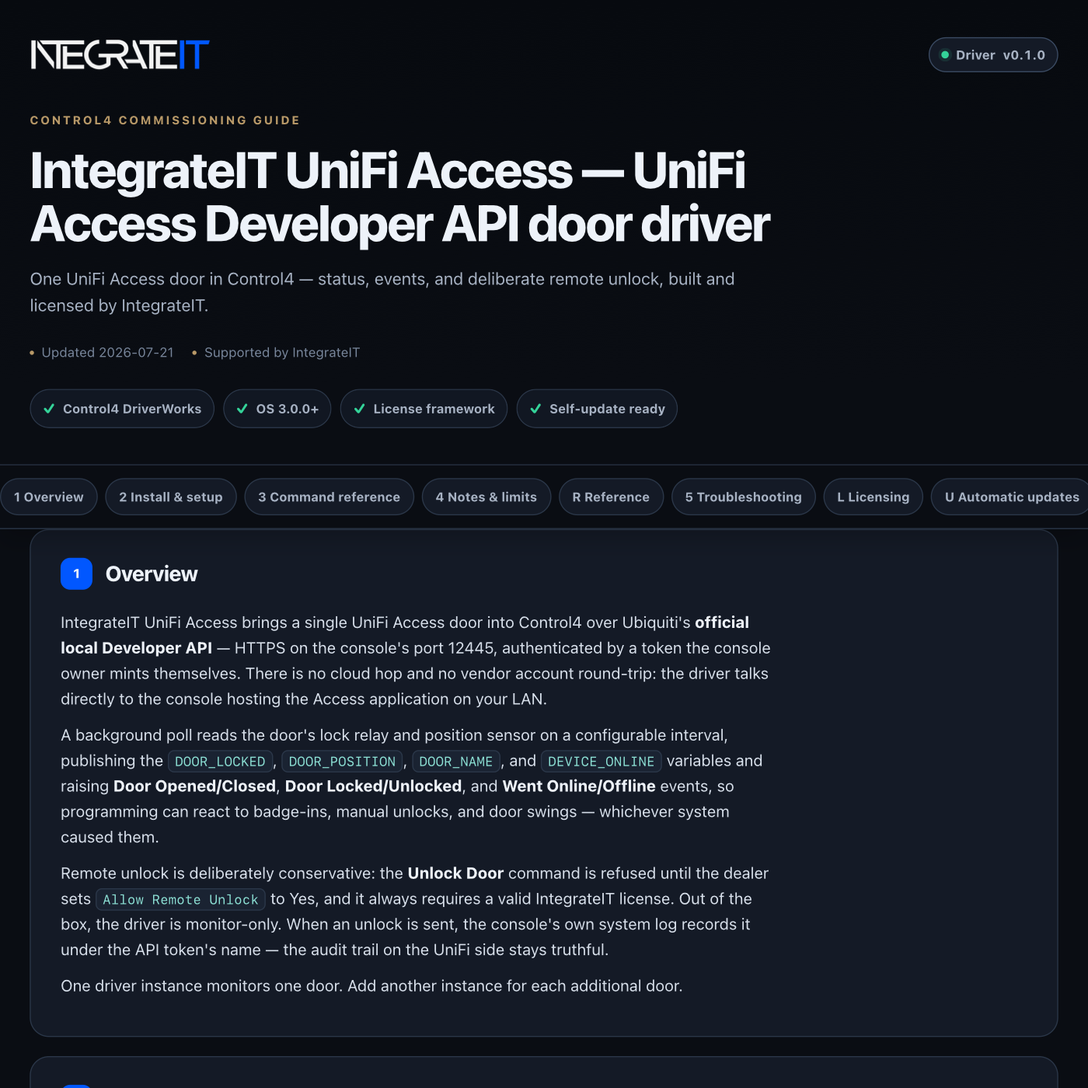
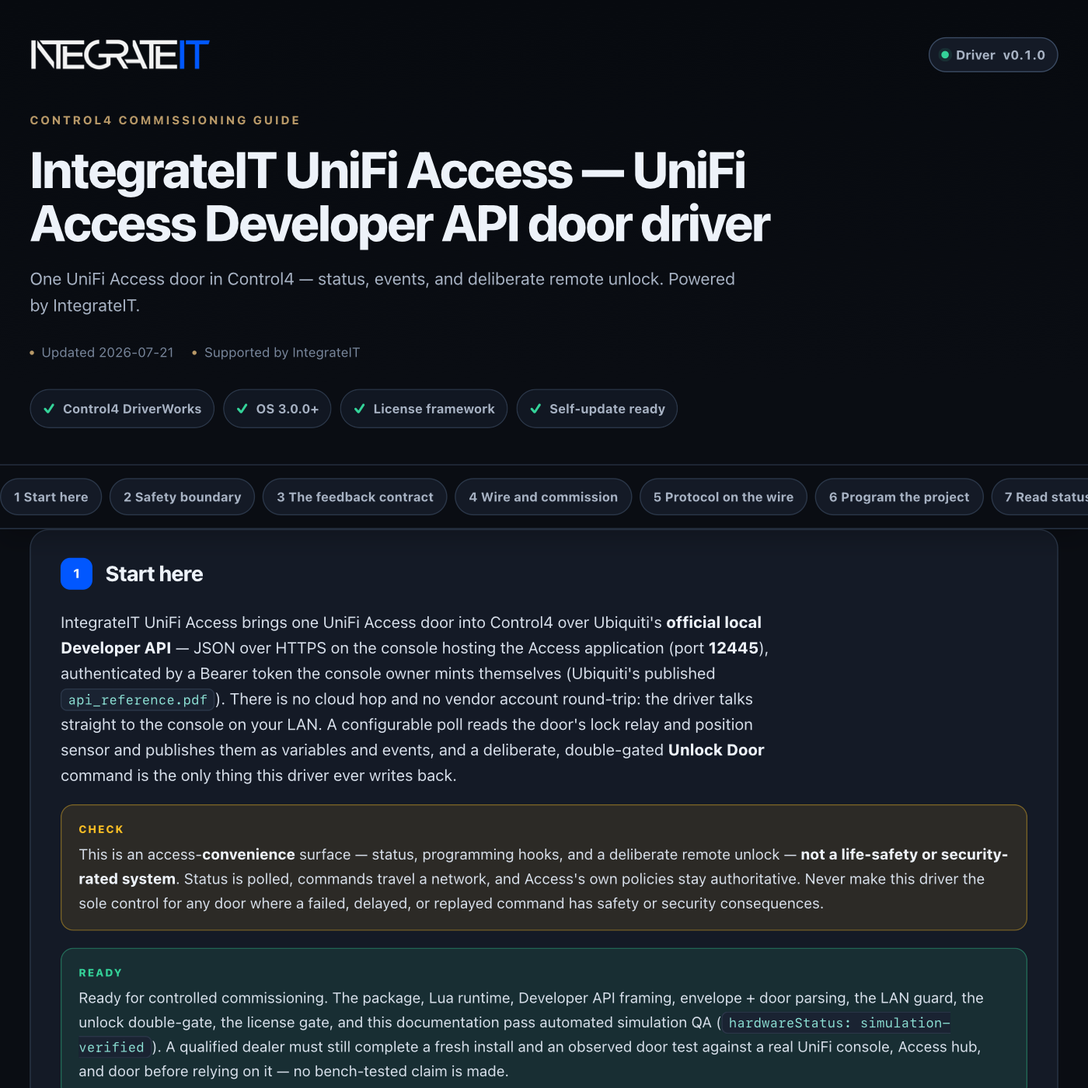
control4: publish driver channel (integrateit_unifi_access 0.1.1)

diff --git a/control4/integrateit_unifi_access/documentation.html b/control4/integrateit_unifi_access/documentation.html
@@ -179,13 +179,13 @@ td code{white-space:normal}
     <div class="wrap">
       <div class="brandbar">
[1 lines of base64/hex data omitted]
-        <span class="version"><span class="word">Driver</span> v0.1.0</span>
+        <span class="version"><span class="word">Driver</span> v0.1.1</span>
       </div>
       <p class="eyebrow">Control4 commissioning guide</p>
       <h1>IntegrateIT UniFi Access — UniFi Access Developer API door driver</h1>
-      <p class="sub">One UniFi Access door in Control4 — status, events, and deliberate remote unlock, built and licensed by IntegrateIT.</p>
+      <p class="sub">One UniFi Access door in Control4 — status, events, and deliberate remote unlock. Powered by IntegrateIT.</p>
       <div class="meta">
-        <span>Updated 2026-07-21</span>
+        <span>Updated 2026-07-26</span>
         <span>Supported by IntegrateIT</span>
       </div>
       <div class="readiness" aria-label="Driver capabilities">
@@ -198,53 +198,145 @@ td code{white-space:normal}
   </header>
 
   <div class="toc-wrap">
-    <nav class="toc wrap" aria-label="Documentation sections"><a href="#overview">1 Overview</a><a href="#install">2 Install &amp; setup</a><a href="#commands">3 Command reference</a><a href="#notes">4 Notes &amp; limits</a><a href="#reference">R Reference</a><a href="#troubleshooting">5 Troubleshooting</a><a href="#licensing">L Licensing</a><a href="#updates">U Automatic updates</a><a href="#changelog">V Version history</a></nav>
+    <nav class="toc wrap" aria-label="Documentation sections"><a href="#overview">1 Start here</a><a href="#safety">2 Safety boundary</a><a href="#feedback">3 The feedback contract</a><a href="#setup">4 Wire and commission</a><a href="#protocol">5 Protocol on the wire</a><a href="#programming">6 Program the project</a><a href="#status">7 Read status at a glance</a><a href="#troubleshooting">8 Troubleshoot methodically</a><a href="#trust">9 Ownership, privacy, and licensing</a><a href="#reference">R Reference</a><a href="#licensing">L Licensing</a><a href="#updates">U Automatic updates</a><a href="#changelog">V Version history</a></nav>
   </div>
 
   <main class="wrap">
     <section class="card" id="overview" data-card="overview">
-  <h2><span class="n">1</span> Overview</h2>
-  <p>IntegrateIT UniFi Access brings a single UniFi Access door into Control4 over Ubiquiti's <b>official local Developer API</b> — HTTPS on the console's port 12445, authenticated by a token the console owner mints themselves. There is no cloud hop and no vendor account round-trip: the driver talks directly to the console hosting the Access application on your LAN.</p>
-  <p>A background poll reads the door's lock relay and position sensor on a configurable interval, publishing the <code>DOOR_LOCKED</code>, <code>DOOR_POSITION</code>, <code>DOOR_NAME</code>, and <code>DEVICE_ONLINE</code> variables and raising <b>Door Opened/Closed</b>, <b>Door Locked/Unlocked</b>, and <b>Went Online/Offline</b> events, so programming can react to badge-ins, manual unlocks, and door swings — whichever system caused them.</p>
-  <p>Remote unlock is deliberately conservative: the <b>Unlock Door</b> command is refused until the dealer sets <code>Allow Remote Unlock</code> to Yes, and it always requires a valid IntegrateIT license. Out of the box, the driver is monitor-only. When an unlock is sent, the console's own system log records it under the API token's name — the audit trail on the UniFi side stays truthful.</p>
-  <p>One driver instance monitors one door. Add another instance for each additional door.</p>
+  <h2><span class="n">1</span> Start here</h2>
+  <p>IntegrateIT UniFi Access brings one UniFi Access door into Control4 over Ubiquiti's <b>official local Developer API</b> — JSON over HTTPS on the console hosting the Access application (port <b>12445</b>), authenticated by a Bearer token the console owner mints themselves (Ubiquiti's published <code>api_reference.pdf</code>). There is no cloud hop and no vendor account round-trip: the driver talks straight to the console on your LAN. A configurable poll reads the door's lock relay and position sensor and publishes them as variables and events, and a deliberate, double-gated <b>Unlock Door</b> command is the only thing this driver ever writes back.</p>
+  <div class="note warn">This is an access-<b>convenience</b> surface — status, programming hooks, and a deliberate remote unlock — <b>not a life-safety or security-rated system</b>. Status is polled, commands travel a network, and Access's own policies stay authoritative. Never make this driver the sole control for any door where a failed, delayed, or replayed command has safety or security consequences.</div>
+  <div class="note good">Ready for controlled commissioning. The package, Lua runtime, Developer API framing, envelope + door parsing, the LAN guard, the unlock double-gate, the license gate, and this documentation pass automated simulation QA (<code>hardwareStatus: simulation-verified</code>). A qualified dealer must still complete a fresh install and an observed door test against a real UniFi console, Access hub, and door before relying on it — no bench-tested claim is made.</div>
+  <p><b>What you get</b></p>
+  <ul>
+    <li>One door per instance, polled over the local Developer API — <code>GET /doors/&lt;id&gt;</code> diffed into state, no cloud dependency</li>
+    <li><code>DOOR_LOCKED</code>, <code>DOOR_POSITION</code> (Open / Closed / Unknown), <code>DOOR_NAME</code>, and <code>DEVICE_ONLINE</code> variables, republished on every poll</li>
+    <li><b>Door Opened/Closed</b>, <b>Door Locked/Unlocked</b>, <b>Went Online/Offline</b>, and <b>Remote Unlock Sent</b> events for Composer programming</li>
+    <li><b>Unlock Door</b> double-gated: the IntegrateIT license AND a dealer-set <b>Allow Remote Unlock</b> switch — monitor-only out of the box</li>
+    <li><b>List Doors</b>, <b>Test Connection</b>, <b>Refresh State Now</b>, and <b>Print Configuration</b> commissioning actions; hubless doors flagged as not remotely unlockable</li>
+    <li>A LAN-only destination guard (WAN refused unless opted in), self-signed-aware TLS with an opt-in strict mode, and an API token that is never written to the log</li>
+  </ul>
 </section>
 
-<section class="card" id="install" data-card="install">
-  <h2><span class="n">2</span> Install &amp; setup</h2>
+<section class="card" id="safety" data-card="safety">
+  <h2><span class="n">2</span> Safety boundary</h2>
+  <div class="note warn">A remotely triggered strike lets someone in. Treat <b>Allow Remote Unlock</b> as a decision the site owner makes, not a default. Egress hardware, anti-passback, schedules, and Access's own permissions remain the authority on who may open this door — this driver is a convenience layer on top of them, never a replacement.</div>
+  <p>The only mutating path in this version is <b>Unlock Door</b>, and it is gated three deep before a strike ever pulses:</p>
   <ol class="steps">
-    <li>On the UniFi console, open <b>Access → Settings → General → Advanced → API Token</b> and create a token. Give it the <b>view:space</b> scope (add <b>edit:space</b> if remote unlock will be used) and copy it immediately — it is shown only once. Reserve the console's IP in DHCP so it does not change.</li>
-    <li>Add this driver to the door's room. Enter <code>Console Address</code> and paste the token into <code>API Token</code>. Leave <code>Console Port</code> at 12445 unless you changed it on the console.</li>
-    <li>Run the <b>List Doors</b> action — it prints every door id, name, and state the token can see, and flags doors that cannot be remotely unlocked. Paste the right id into <code>Door ID</code>.</li>
-    <li>Run <b>Test Connection</b> to confirm the driver reaches the console. Set <code>Poll Interval (s)</code> if the default 5 seconds is too fast or slow.</li>
-    <li>In Programming, react to the events or read the variables. If — and only if — the site owner approves Control4-initiated unlocks, set <code>Allow Remote Unlock</code> to Yes and wire the <b>Unlock Door</b> command.</li>
-    <li>Optionally enter a <code>License Key</code> (see Licensing) — the driver runs in Lenient mode without one.</li>
+    <li><b>The IntegrateIT license.</b> Under Strict enforcement an unlicensed controller sends no unlock; the read poll keeps running, because monitoring your own door is not a licensed feature.</li>
+    <li><b>Allow Remote Unlock = Yes.</b> Ships <b>No</b>. While it is No the driver is monitor-only and the command refuses even from Composer programming — nothing pulses a strike until a human flips it.</li>
+    <li><b>The hub-bind rule.</b> A door not bound to an Access hub cannot be unlocked through the API at all (a UniFi platform rule). When the last poll saw <code>is_bind_hub</code> false, the command refuses locally with no HTTP sent, and <b>List Doors</b> flags that door.</li>
   </ol>
+  <p>What "unlock" means here is exactly what UniFi permits remotely: a momentary unlock on a hub-bound door via <code>PUT /doors/&lt;id&gt;/unlock</code>. The driver does not lock on command, does not manage credentials, schedules, or access policies, and cannot force a door Access itself would refuse. The unlock is sent with an empty body, so the console logs it under the <b>API token's own name</b> — the documented default actor — leaving a truthful audit trail on the UniFi side. A non-LAN console address is refused before anything reaches the wire — on the unlock path and on every poll — unless <b>Allow WAN Console</b> is set to Yes.</p>
 </section>
 
-<section class="card" id="commands" data-card="commands">
-  <h2><span class="n">3</span> Command reference</h2>
+<section class="card" id="feedback" data-card="feedback">
+  <h2><span class="n">3</span> The feedback contract</h2>
+  <p>State is <b>polled, never pushed</b>, and the driver never invents a reading:</p>
   <ul>
-    <li><b>Unlock Door</b> — remotely unlocks the door via the console. Refused while <code>Allow Remote Unlock</code> is No, while unlicensed under Strict enforcement, or if the door is not bound to an Access hub. On success the driver fires <b>Remote Unlock Sent</b> and re-polls the door within half a second.</li>
-    <li><b>Refresh State</b> — polls immediately instead of waiting for the next interval.</li>
+    <li>A badge-in, a manual unlock, or a door swing appears on the <b>next poll</b> (default 5 s), not instantly. Ubiquiti's WebSocket notifications and webhooks are documented but out of scope for this version.</li>
+    <li>Change events fire only when a state moves <b>from a known value to a different one</b>. The first poll after boot adopts the door's current lock and position silently — no spurious <b>Door Opened</b> or <b>Door Unlocked</b> on startup. Reachability is the exception: the first observation is itself a real transition, so it does fire <b>Went Online</b> / <b>Went Offline</b>.</li>
+    <li><code>door_position_status</code> reports <b>open</b> or <b>close</b>; a door with no wired position sensor (DPS) reports it as an empty string <b>or a JSON <code>null</code></b> — both normalize to <code>DOOR_POSITION</code> = <b>Unknown</b>, and position events never fire for that door. A DPS that drops mid-life clears back to Unknown rather than pinning the last Open/Closed reading forever.</li>
+    <li>Reachability is honest about the transport: any HTTP response — even a 401 — means the console answered, so <b>Went Online</b> fires; only a genuine transport failure (no response) marks it <b>Offline</b>.</li>
+    <li>After a controller reboot every state restarts unknown; nothing that happened while the driver was down is observable. The next poll re-primes the truth.</li>
   </ul>
-  <p><b>Events:</b> *Door Opened*, *Door Closed*, *Door Unlocked*, *Door Locked*, *Went Online*, *Went Offline*, *Remote Unlock Sent*. <b>Variables:</b> <code>DOOR_LOCKED</code>, <code>DOOR_POSITION</code> (Open / Closed / Unknown), <code>DOOR_NAME</code>, <code>DEVICE_ONLINE</code>.</p>
 </section>
 
-<section class="card" id="notes" data-card="notes">
-  <h2><span class="n">4</span> Notes &amp; limits</h2>
+<section class="card" id="setup" data-card="setup">
+  <h2><span class="n">4</span> Wire and commission</h2>
+  <ol class="steps">
+    <li>On the UniFi console, open <b>Access → Settings → General → Advanced → API Token</b> and create a token. Give it the <b>view:space</b> scope (add <b>edit:space</b> only if remote unlock will be used) and copy it immediately — it is shown once. Reserve the console's IP in DHCP so it does not move.</li>
+    <li>Add <b>IntegrateIT UniFi Access</b> to the door's room. Set <b>Console Address</b> to the console's LAN IP and paste the token into <b>API Token</b>. Leave <b>Console Port</b> at 12445 unless you changed it on the console.</li>
+    <li>Run the <b>List Doors</b> action. It prints every door id, name, and state this token can see, and flags any door that cannot be remotely unlocked. Paste the correct id into <b>Door ID</b>.</li>
+    <li>Run <b>Test Connection</b> — it should report the Developer API reachable and the door count. Adjust <b>Poll Interval (s)</b> if the 5 s default is too fast or slow.</li>
+    <li>Watch the <b>Device Status</b> property fill in with the door's live lock/position state, and confirm <code>DOOR_LOCKED</code> / <code>DOOR_POSITION</code> track the door as you cycle it by hand — that proves the poll.</li>
+    <li>Only if the site owner approves Control4-initiated unlocks, set <b>Allow Remote Unlock</b> to Yes and wire the <b>Unlock Door</b> command in Programming. Enter a <b>License Key</b> for production (the driver runs in Lenient mode without one).</li>
+  </ol>
+  <div class="note">The Developer API needs the Access application at <b>v1.9.1 or newer</b> and is <b>removed on consoles migrated to UniFi Identity Enterprise</b>. One driver instance monitors exactly one door — add another instance per door.</div>
+</section>
+
+<section class="card" id="protocol" data-card="protocol">
+  <h2><span class="n">5</span> Protocol on the wire</h2>
+  <p>Every call is JSON over HTTPS to <code>https://&lt;console&gt;:&lt;port&gt;/api/v1/developer</code>, with the Bearer token in the <code>Authorization</code> header only — never in a log line. <b>Debug Mode → Print</b> logs the unlock as <b>method + path</b> (<code>PUT /doors/&lt;id&gt;/unlock</code>) plus its HTTP result, and any transport error; the token is never printed. The background poll is deliberately quiet — run <b>Refresh State Now</b> when you want a poll's HTTP status on the screen.</p>
+  <table>
+    <tr><th>Call</th><th>Purpose</th></tr>
+    <tr><td><code>GET /doors</code></td><td>Enumerate doors — Test Connection, List Doors</td></tr>
+    <tr><td><code>GET /doors/&lt;id&gt;</code></td><td>Poll one door's lock relay + position (the state poll)</td></tr>
+    <tr><td><code>PUT /doors/&lt;id&gt;/unlock</code></td><td>Momentary unlock — empty <code>{}</code> body, so the token is the logged actor</td></tr>
+  </table>
+  <p>Every response is wrapped in Ubiquiti's envelope, <code>{"code":"SUCCESS","msg":…,"data":…}</code>. A poll is trusted only when the HTTP status is <b>200 and</b> the envelope code is <code>SUCCESS</code>; anything else is surfaced, not swallowed. The door parse reads only anchored fields — <code>name</code>, <code>door_lock_relay_status</code> (<code>lock</code>/<code>unlock</code>), <code>door_position_status</code> (<code>open</code>/<code>close</code>/empty/<code>null</code>), and <code>is_bind_hub</code> (accepted as a JSON boolean <b>or</b> a quoted string, since the reference declares the field String while the sample emits a boolean); <b>List Doors</b> additionally reads each door's <code>id</code> and <code>full_name</code>. Documented error envelopes map to plain status text:</p>
   <ul>
-    <li><b>State feedback is polled, not pushed.</b> A badge-in or a door swing appears on the next poll (default 5 seconds), not instantly. Ubiquiti's WebSocket notification stream and webhooks are documented but out of scope for this version.</li>
-    <li><b>Remote unlock ships disabled.</b> The <code>Allow Remote Unlock</code> property is the commissioning safety switch — until a human sets it to Yes, nothing (Composer programming included) can pulse a strike through this driver.</li>
-    <li><b>Doors without a position sensor (DPS)</b> report <code>DOOR_POSITION</code> = Unknown and never fire Door Opened/Closed; lock relay state and unlock still work.</li>
-    <li><b>TLS:</b> consoles serve a self-signed certificate on port 12445, so certificate verification is relaxed by default. After installing a valid certificate on the console (Access supports uploading one), set <code>TLS Certificate Check</code> to Require Valid Certificate.</li>
-    <li>The <code>API Token</code> is treated as a secret: it is sent only in the request header and is never written to the Lua log, even with Debug Mode on.</li>
-    <li>The Developer API requires Access <b>1.9.1 or newer</b> and is <b>unavailable on consoles upgraded to UniFi Identity Enterprise</b>. Remote unlock only works for doors bound to an Access hub (a UniFi platform rule — the List Doors action flags these).</li>
-    <li>The driver refuses a non-LAN console address unless <code>Allow WAN Console</code> is set to Yes.</li>
+    <li><code>CODE_AUTH_FAILED</code> / <code>CODE_ACCESS_TOKEN_INVALID</code> → "Auth failed — check the API Token"</li>
+    <li><code>CODE_UNAUTHORIZED</code> → "Token lacks permission — re-issue with the needed scopes"</li>
+    <li>any other non-<code>SUCCESS</code> code → "Access error (…)"; a non-200 with no envelope → "Console error (HTTP …)"</li>
   </ul>
+</section>
+
+<section class="card" id="programming" data-card="programming">
+  <h2><span class="n">6</span> Program the project</h2>
+  <table>
+    <tr><th>Event</th><th>Fires when</th></tr>
+    <tr><td><code>Door Opened</code> / <code>Door Closed</code></td><td>The position sensor changed across polls (DPS doors only)</td></tr>
+    <tr><td><code>Door Unlocked</code> / <code>Door Locked</code></td><td>The lock relay changed across polls</td></tr>
+    <tr><td><code>Went Online</code> / <code>Went Offline</code></td><td>The console started / stopped responding</td></tr>
+    <tr><td><code>Remote Unlock Sent</code></td><td>The console accepted an unlock this driver sent</td></tr>
+  </table>
+  <table>
+    <tr><th>Variable</th><th>Type</th><th>Meaning</th></tr>
+    <tr><td><code>DOOR_LOCKED</code></td><td>BOOL</td><td>Lock relay: true = locked</td></tr>
+    <tr><td><code>DOOR_POSITION</code></td><td>STRING</td><td>Open, Closed, or Unknown (no DPS)</td></tr>
+    <tr><td><code>DOOR_NAME</code></td><td>STRING</td><td>The door's name as the console reports it</td></tr>
+    <tr><td><code>DEVICE_ONLINE</code></td><td>BOOL</td><td>Console reachable on the last poll</td></tr>
+  </table>
+  <p>Two commands are wireable: <b>Unlock Door</b>, gated as described above, and <b>Refresh State</b>, which polls immediately instead of waiting out the interval. Three ways these wire into Composer:</p>
+  <ul>
+    <li><b>When Door Opened fires → announce it or start a timer.</b> React to the door actually swinging, whichever system opened it — badge, app, or Control4.</li>
+    <li><b>When a delivery is expected → Unlock Door, then watch Remote Unlock Sent.</b> The event confirms the console accepted the pulse; the driver re-polls within half a second so <code>DOOR_LOCKED</code> catches up.</li>
+    <li><b>When Went Offline fires → notify the rack owner.</b> A console that stops answering is worth surfacing before someone finds the door unresponsive.</li>
+  </ul>
+  <p>Control is license-gated: under Strict enforcement an unlicensed controller writes no unlock, while polling and events stay live. The default Lenient mode allows commissioning with <code>License Status</code> carrying the nag.</p>
+</section>
+
+<section class="card" id="status" data-card="status">
+  <h2><span class="n">7</span> Read status at a glance</h2>
+  <table>
+    <tr><th>Property / variable</th><th>Healthy result</th><th>What to do otherwise</th></tr>
+    <tr><td><code>Device Status</code></td><td><code>Online — &lt;door&gt;: locked, closed</code> — it also appends <code>no position sensor</code> and <code>NOT hub-bound</code> when either applies</td><td>"Offline (no response)" = wrong address/port or Access down; "Blocked: …" = LAN guard</td></tr>
+    <tr><td><code>DOOR_POSITION</code></td><td>Open or Closed on a DPS door</td><td>Unknown = no position sensor wired; use lock-relay state and events instead</td></tr>
+    <tr><td><code>DOOR_LOCKED</code></td><td>Tracks the strike</td><td>Stuck = confirm the poll runs and the Door ID is right</td></tr>
+    <tr><td><code>DEVICE_ONLINE</code></td><td>1 while the console answers</td><td>0 = transport failure; check reachability and port 12445</td></tr>
+    <tr><td><code>Door Name</code></td><td>The console's door name</td><td>Unknown until the first successful poll</td></tr>
+    <tr><td><code>License Status</code></td><td>Activated, or Lenient during commissioning</td><td>Enter a key before selecting Strict enforcement</td></tr>
+  </table>
+  <p><b>Print Configuration</b> writes the console target, Door ID, token length (never the token), poll interval, and the WAN / unlock / TLS posture plus the IntegrateIT identity to the Lua output window.</p>
+</section>
+
+<section class="card" id="troubleshooting" data-card="troubleshooting">
+  <h2><span class="n">8</span> Troubleshoot methodically</h2>
+  <table>
+    <tr><th>Symptom</th><th>Likely cause</th><th>Fix</th></tr>
+    <tr><td>Nothing polls; <code>Device Status</code> "No Console Address set" / "No Door ID set"</td><td>A required property is blank</td><td>Set Console Address; run List Doors and paste a Door ID</td></tr>
+    <tr><td>"Auth failed — check the API Token"</td><td>Wrong or expired token</td><td>Mint a fresh token (Access → Settings → General → Advanced → API Token) and paste it — tokens show once and can expire</td></tr>
+    <tr><td>"Token lacks permission (CODE_UNAUTHORIZED)"</td><td>Token scope too narrow</td><td>Re-issue with view:space (plus edit:space for unlock)</td></tr>
+    <tr><td>"Offline (no response)" / Console unreachable</td><td>Wrong address/port, Access not running, or Identity Enterprise</td><td>Confirm port 12445, that Access 1.9.1+ is running, and that the console was NOT migrated to Identity Enterprise</td></tr>
+    <tr><td>"Remote unlock disabled — set Allow Remote Unlock = Yes"</td><td>The commissioning safety switch is off</td><td>The designed default; flip it only with the site owner's approval</td></tr>
+    <tr><td>"Door is not bound to a hub — remote unlock unavailable"</td><td>The door has no Access hub</td><td>Bind it to a hub in UniFi Access; monitoring works without one</td></tr>
+    <tr><td><code>DOOR_POSITION</code> stuck on Unknown</td><td>No DPS wired to the door</td><td>Wire a position sensor, or use lock-relay state and events only</td></tr>
+    <tr><td><code>Device Status</code> reads "Blocked: …"</td><td>Console address is not on the LAN</td><td>Use the LAN IP, or set Allow WAN Console = Yes if you truly mean to route to it</td></tr>
+    <tr><td>Unlock does nothing under Strict enforcement</td><td>Controller unlicensed</td><td>Check <code>License Status</code>; Lenient keeps control enabled without a key</td></tr>
+  </table>
+  <div class="note warn">TLS — consoles serve a <b>self-signed</b> certificate on 12445, so verification is relaxed by default. After installing a valid certificate on the console, set <b>TLS Certificate Check</b> to Require Valid Certificate. On legacy OS builds without the modern URL interface, a valid certificate is effectively required.</div>
+  <p>If a symptom survives every check, run <b>Print Configuration</b>, capture the Lua output window, and send it to support@integrateit.tech · (913) 804-7575.</p>
+</section>
+
+<section class="card" id="trust" data-card="trust">
+  <h2><span class="n">9</span> Ownership, privacy, and licensing</h2>
+  <p>This package is an original IntegrateIT implementation of Ubiquiti's published UniFi Access Developer API. It bundles no Ubiquiti runtime, source, brand assets, trial system, or license. Ubiquiti, UniFi, and UniFi Access are trademarks of Ubiquiti Inc.; IntegrateIT is not affiliated with Ubiquiti, and this driver is not a Ubiquiti product. Driver engineering, Control4 integration, documentation, QA, licensing, updates, and support are provided by IntegrateIT.</p>
+  <p>The driver talks only to the UniFi console you configure, on your LAN, and sends door state and unlock commands nowhere else. The <b>API Token</b> is the entire credential: it is sent only in the <code>Authorization</code> header, is never written to the Lua log even in Debug, and Print Configuration reports only its length. A non-LAN console is refused unless you explicitly set Allow WAN Console = Yes. The shared IntegrateIT license and update services use the controller identity, driver slug, version, configured license key, and update channel as documented in the reference below.</p>
+  <p>Lenient mode allows commissioning without an activated key and keeps <code>License Status</code> visible. Strict mode blocks the remote unlock until the Ops Portal has minted and validated a key for that controller; polling and feedback continue either way. Installing this package does not itself mint or activate a controller license.</p>
 <section class="card" id="reference" data-card="reference">
   <h2><span class="n">R</span> Reference</h2>
-  <p>Generated from the driver manifest at build time — always matches this build (v0.1.0).</p>
+  <p>Generated from the driver manifest at build time — always matches this build (v0.1.1).</p>
   <h3>Properties</h3>
   <table>
     <tr><th>Property</th><th>Type</th><th>Default</th><th>Description</th></tr>
@@ -306,22 +398,6 @@ td code{white-space:normal}
   </table>
 </section>
 </section>
-
-<section class="card" id="troubleshooting" data-card="troubleshooting">
-  <h2><span class="n">5</span> Troubleshooting</h2>
-  <table>
-    <tr><th>Symptom</th><th>Likely cause</th><th>Fix</th></tr>
-    <tr><td>"Auth failed — check the API Token"</td><td>Wrong or expired token</td><td>Mint a fresh token (Access → Settings → General → Advanced → API Token) and paste it again — tokens are shown once and can expire.</td></tr>
-    <tr><td>"Token lacks permission (CODE_UNAUTHORIZED)"</td><td>Token scopes too narrow</td><td>Re-issue the token with view:space (and edit:space for unlock).</td></tr>
-    <tr><td>"Console unreachable"</td><td>Wrong address/port, Access not running, or Identity Enterprise</td><td>Confirm port 12445, that the Access application is installed and running, and that the console has NOT been migrated to Identity Enterprise (that removes this API).</td></tr>
-    <tr><td>"Remote unlock disabled — set Allow Remote Unlock = Yes"</td><td>The commissioning safety switch is off</td><td>That is the designed default. Flip it only with the site owner's approval.</td></tr>
-    <tr><td>"Door is not bound to a hub — remote unlock unavailable"</td><td>The door has no Access hub</td><td>Bind the door to a hub in UniFi Access; monitoring still works without one.</td></tr>
-    <tr><td><code>DOOR_POSITION</code> stuck on Unknown</td><td>No DPS wired to the door</td><td>Wire a position sensor to the hub, or use lock-relay state and events only.</td></tr>
-    <tr><td><code>Device Status</code> reads "Blocked: …"</td><td>Console address is not on the LAN</td><td>Use the console's LAN IP, or set <code>Allow WAN Console</code> to Yes if you really mean to route to it.</td></tr>
-    <tr><td>Commands do nothing</td><td>Strict enforcement + unlicensed</td><td>Check <code>License Status</code>; Lenient mode keeps control enabled without a key.</td></tr>
-  </table>
-  <div class="note">Turn on <code>Debug Mode → Print</code> to watch every HTTP call (method + path only — the token is never shown) in the Lua output window.</div>
-</section>
 <section class="card" id="licensing" data-card="licensing">
   <h2><span class="n">L</span> Licensing</h2>
   <p>This driver is licensed <b>per controller</b>. Each license key locks to one controller's
@@ -369,7 +445,9 @@ td code{white-space:normal}
     <section class="card" id="changelog" data-card="changelog">
   <h2><span class="n">V</span> Version history</h2>
   <div class="chg">
-    <div class="rel"><b>v0.1.0</b> <span class="pill green">current</span><span class="d">2026-07-21</span>
+    <div class="rel"><b>v0.1.1</b> <span class="pill green">current</span><span class="d">2026-07-26</span>
+      <ul><li>Documentation rebuilt to the IntegrateIT commissioning-guide standard: uniform sections, honest contracts, verified claim-by-claim against the code.</li></ul></div>
+    <div class="rel"><b>v0.1.0</b><span class="d">2026-07-21</span>
       <ul><li>Initial release candidate against Ubiquiti's official local Access Developer API (HTTPS :12445, customer-minted Bearer token).</li><li>One door per instance: polled lock relay + door position (DPS) published as DOOR_LOCKED / DOOR_POSITION / DOOR_NAME / DEVICE_ONLINE with Door Opened/Closed, Door Locked/Unlocked, and Went Online/Offline events.</li><li>Remote unlock (PUT /doors/:id/unlock) double-gated: IntegrateIT license AND the dealer-set Allow Remote Unlock switch — monitor-only out of the box; the console logs unlocks under the API token's name.</li><li>List Doors / Test Connection / Print Configuration commissioning actions; hubless doors flagged as not remotely unlockable.</li><li>LAN-only destination safeguard, self-signed-aware TLS (opt-in strict verification), API token never logged.</li><li>Access-convenience surface, not a life-safety system. Simulation-verified; hardware acceptance pending.</li><li>Hardened the door parser against the two forms Ubiquiti's own reference documents beyond the response samples: a JSON `null` `door_position_status` (the reference's "no device is connected" signal) now reads as Unknown instead of pinning the last Open/Closed reading, and a quoted-string `is_bind_hub` (the reference declares the field type String though the sample emits a boolean) is now parsed so the hub-bind unlock guard and the List Doors flag stay correct on spec-conforming firmware.</li></ul></div>
   </div>
 </section>

diff --git a/control4/integrateit_unifi_access/CHANGELOG.md b/control4/integrateit_unifi_access/CHANGELOG.md
@@ -1,5 +1,8 @@
 # Changelog — IntegrateIT UniFi Access
 
+## [0.1.1] - 2026-07-26
+- Documentation rebuilt to the IntegrateIT commissioning-guide standard: uniform sections, honest contracts, verified claim-by-claim against the code.
+
 ## [0.1.0] - 2026-07-21
 - Initial release candidate against Ubiquiti's official local Access Developer API (HTTPS :12445, customer-minted Bearer token).
 - One door per instance: polled lock relay + door position (DPS) published as DOOR_LOCKED / DOOR_POSITION / DOOR_NAME / DEVICE_ONLINE with Door Opened/Closed, Door Locked/Unlocked, and Went Online/Offline events.
